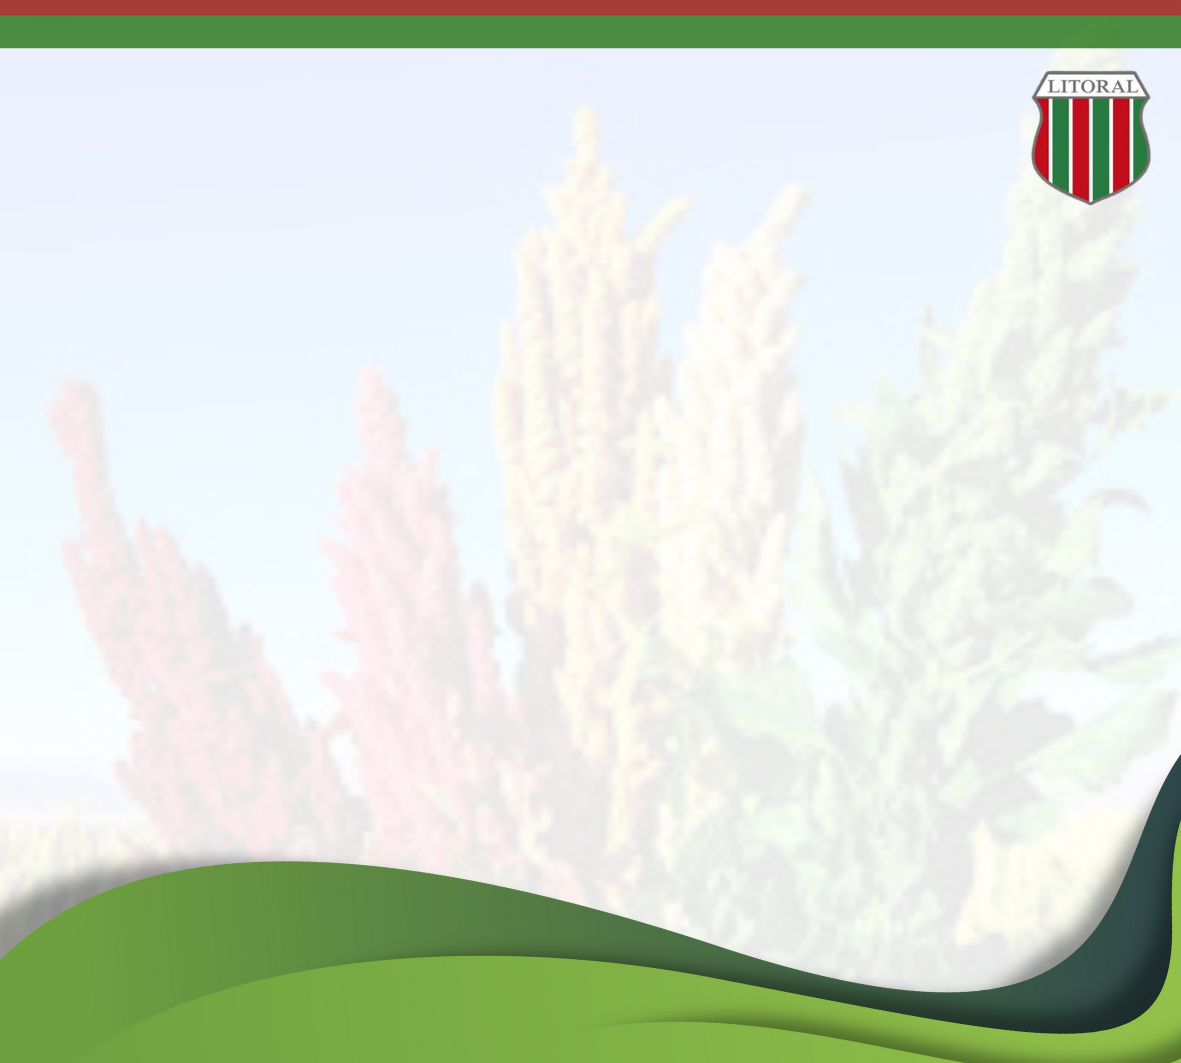
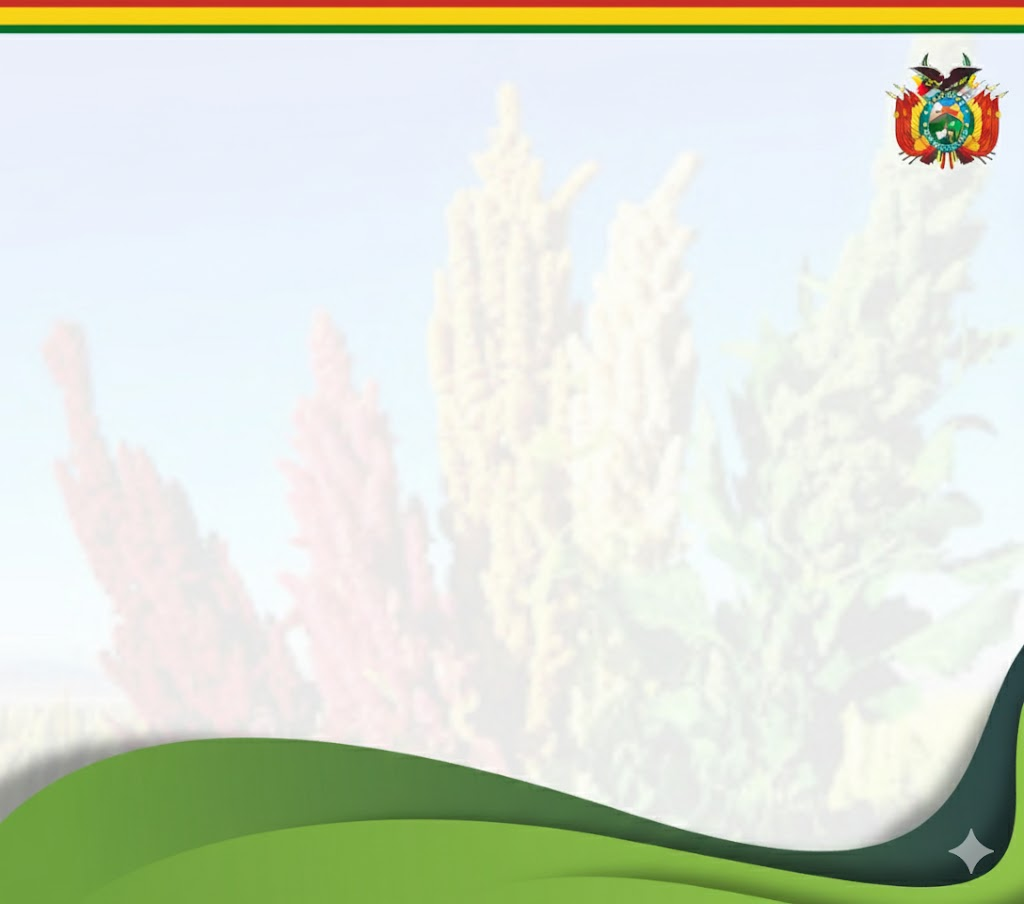
21-11-2025
AJUSTES NOMBRE DE ANFITRION

diff --git a/src/app/component/dialog/jugador-equipo/jugador-equipo.component.ts b/src/app/component/dialog/jugador-equipo/jugador-equipo.component.ts
@@ -711,7 +711,7 @@ export class JugadorEquipoComponent implements OnInit {
         doc.text('INTEGRACION YARETANENCE', posX + carnetWidth / 2, posY + 13, { align: 'center' });
         doc.setFontSize(9);
         doc.setFont('helvetica', 'normal');
-        doc.text('JILSTATA-2024', posX + carnetWidth / 2, posY + 17, { align: 'center' });
+        doc.text('TAMBO TAMBILLO - 2025', posX + carnetWidth / 2, posY + 17, { align: 'center' });
 
 
         // Subtítulo centrado

diff --git a/src/environments/environment.ts b/src/environments/environment.ts
@@ -6,3 +6,4 @@ export const environment = {
   // production:  false,
   // apiUrl: 'http://localhost:4000'   
 };
+ 
